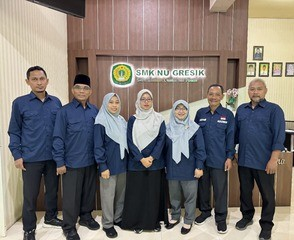
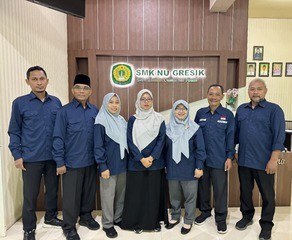
11 JUNI 26 NEW

diff --git a/style.css b/style.css
@@ -77,45 +77,81 @@ font-family: 'Poppins', sans-serif; /* sans-serif sebagai fallback font */
 }
 
 .bph, .bph1 {
-position: relative;
-display: block;
-margin: auto;
-width: fit-content;
-padding: 10px 20px;
-margin-top: 20px;
-border-radius: 5px;
-text-align: center;
-background-color: #fff; /* Background color for the sections */
-border: 4px solid  #00bfff; /* Border color to match Angry Birds theme */
-}
-
-.hover-text {
-  position: absolute;
-  top: 50%;
-  left: 50%;
-  transform: translate(-50%, -50%); /* Menempatkan tepat di titik tengah foto */
-  width: auto;                      /* Lebar otomatis mengikuti panjang teks */
-  height: auto;                     /* Tinggi otomatis */
-  
-  background-color: #00bfff; 
-  color: #ffffff;
-  font-size: 1.2rem;
-  font-weight: bold;
-  padding: 10px 24px;
+  position: relative !important;
+  display: block;        /* Mengubah jadi block agar overflow:hidden bekerja sempurna */
+  max-width: 90%;        /* Mengatur agar lebar kotak pas seukuran layar HP */
+  margin: 20px auto;     /* Jarak antar kotak foto biar rapi turun ke bawah */
+  overflow: hidden;      /* KUNCI: Memotong semua warna/elemen yang meluber keluar foto */
   border-radius: 8px;
-  text-align: center;
-  box-shadow: 0 4px 15px rgba(0, 0, 0, 0.4);
-  
-  opacity: 1; 
-  transition: all 0.3s ease;
-  z-index: 10;
+  border: 4px solid #00bfff; /* Border biru cyan tema web kamu */
+  background-color: transparent !important;
 }
 
-.bph:hover .hover-text,
-.bph1:hover .hover-text {
-  background-color: #0099cc; /* Warna tombol sedikit menggelap */
-  transform: translate(-50%, -50%) scale(1.1); /* Tombol membesar sedikit secara halus */
-  box-shadow: 0 6px 20px rgba(0, 0, 0, 0.6);
+.bph img, .bph1 img {
+  width: 100%;           /* Memaksa gambar memenuhi lebar kotak */
+  height: auto;
+  display: block;
+}
+
+/* Lapisan hitam transparan di atas foto */
+.hover-text {
+  position: absolute !important;
+  top: 0;
+  left: 0;
+  width: 100%;
+  height: 100%;
+  background-color: transparent !important;
+  opacity: 0;
+  display: block !important; 
+  z-index: 99 !important;
+  box-sizing: border-box;
+}
+
+/* Label MPK / BPH / KB2PN di pojok kiri atas */
+.nama-sekbid {
+  position: absolute !important;
+  top: 15px !important;
+  left: 15px !important;
+  background-color: #00bfff !important;
+  color: #ffffff !important;
+  font-size: 0.9rem;
+  font-weight: bold;
+  padding: 6px 14px;
+  border-radius: 4px;
+  box-shadow: 0 2px 8px rgba(0, 0, 0, 0.2);
+  width: auto !important; 
+  height: auto !important;
+  display: inline-block !important;
+  z-index: 100 !important;
+}
+
+/* Tombol KLIK warna putih di tengah-tengah foto */
+.tombol-klik {
+  position: absolute !important;
+  top: 75% !important;
+  left: 50% !important;
+  transform: translate(-50%, -50%); /* Menaruh tepat di tengah */
+  
+  background-color: #ffffff !important;
+  color: #00bfff !important;
+  font-size: 1.1rem;
+  font-weight: bold;
+  padding: 10px 28px;
+  border-radius: 8px;
+  box-shadow: 0 4px 15px rgba(0, 0, 0, 0.3);
+  text-transform: uppercase;
+  width: auto !important;  
+  height: auto !important;
+  z-index: 100 !important;
+  transition: all 0.3s ease;
+}
+
+/* Efek interaktif pas foto disentuh/di-hover kursor */
+.bph:hover .tombol-klik,
+.bph1:hover .tombol-klik {
+  background-color: #00bfff !important;
+  color: #ffffff !important;
+  transform: translate(-50%, -50%) scale(1.1);
 }
 
 .bph::after, .bph1::after {
@@ -158,6 +194,9 @@ text-align: center;
 }
 
 .chairman img {
+width: 350px;          /* Atur lebar lingkaran (samakan ukurannya) */
+height: 350px;         /* Atur tinggi wajib sama dengan lebar agar bulat sempurna */
+object-fit: cover;
 max-width: 100%;
 height: auto;
 display: block;

diff --git a/index.html b/index.html
@@ -84,47 +84,83 @@
     </div>
         <a href="mpk/mpk.html" class="bph">
             <img src="MPK.jpg" loading="lazy" alt="Foto MPK">
-            <div class="hover-text">MPK</div>
+            <div class="hover-text"></div>
+                <span class="nama-sekbid">MPK</span>
+                <span class="tombol-klik">PENJELASAN</span>
+            </div>
         </a>
+
         <a href="bph/kb2pn.html" class="bph">
             <img src="BPH.jpg" loading="lazy" alt="Foto BPH">
-            <div class="hover-text">BPH</div>
+            <div class="hover-text"></div>
+                <span class="nama-sekbid">BPH</span>
+                <span class="tombol-klik">PENJELASAN</span>
+            </div>
         </a>
-        <div class="gambaran">
+
+        <div class="gambaran"></div>
+
         <a href="KTTYME/mpk.html" class="bph1">
             <img src="KTTYME.jpg" loading="lazy" alt="Foto KTTYME">
-            <div class="hover-text">KTTYME</div>
+            <div class="hover-text"></div>
+                <span class="nama-sekbid">KTTYME</span>
+                <span class="tombol-klik">PENJELASAN</span>
+            </div>
         </a>
+
         <a href="kbpl/mpk.html" class="bph1">
             <img src="KBPL.jpg" loading="lazy" alt="Foto KBPL">
-            <div class="hover-text">KBPL</div>
+            <div class="hover-text"></div>
+                <span class="nama-sekbid">KBPL</span>
+                <span class="tombol-klik">PENJELASAN</span>
+            </div>
         </a>
+
         <a href="padks/mpk.html" class="bph1">
             <img src="PADKS.jpeg" loading="lazy" alt="Foto PADKS">
-            <div class="hover-text">PADKS</div>
-        </a>   
+            <div class="hover-text"></div>
+                <span class="nama-sekbid">PADKS</span>
+                <span class="tombol-klik">PENJELASAN</span>
+            </div>
+        </a>
+
         <a href="kj/kj.html" class="bph1">
             <img src="KJ.jpg" loading="lazy" alt="Foto KJ">
-            <div class="hover-text">KJ</div>
+            <div class="hover-text"></div>
+                <span class="nama-sekbid">KJ</span>
+                <span class="tombol-klik">PENJELASAN</span>
+            </div>
         </a>
+
         <a href="BK/mpk.html" class="bph1">
             <img src="BK.jpg" loading="lazy" alt="Foto BK">
-            <div class="hover-text">BK</div>
+            <div class="hover-text"></div>
+                <span class="nama-sekbid">BK</span>
+                <span class="tombol-klik">PENJELASAN</span>
+            </div>
         </a>
+
         <a href="kb2pn/kb2pn.html" class="bph1">
             <img src="KB2PN.jpg" loading="lazy" alt="Foto KB2PN">
-            <div class="hover-text">KB2PN</div>
+            <div class="hover-text"></div>
+                <span class="nama-sekbid">KB2PN</span>
+                <span class="tombol-klik">PENJELASAN</span>
+            </div>
         </a>
+
         <a href="KWU/kb2pn.html" class="bph1">
             <img src="KWU.jpg" loading="lazy" alt="Foto KWU">
-            <div class="hover-text">KWU</div>
+            <div class="hover-text"></div>
+                <span class="nama-sekbid">KWU</span>
+                <span class="tombol-klik">PENJELASAN</span>
+            </div>
         </a>
     </div>
     <div class="low">
     <p>Sudah yakin mau pilih MPK / OSIS, Sekbid atau BPH?</p>
     <p>Yuk bergabung bersama OSMECT:</p>
 
-    <a href="https://forms.gle/6h3pqHzPhpJ4aW7p7"
+    <a href="https://forms.gle/57xVahXXwijTAwzX7"
        target="_blank"
        rel="noopener noreferrer"
        class="join-button">